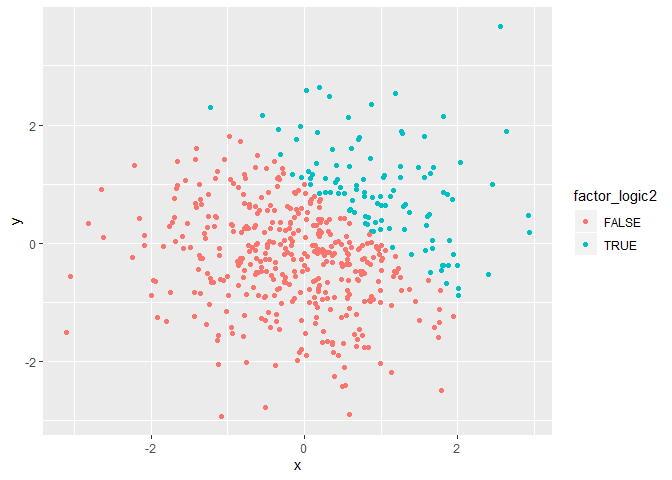
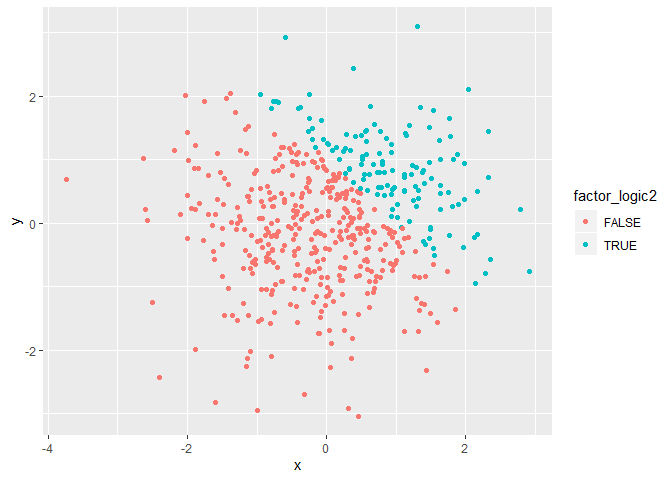
I updated my RMD file, writing interpretations for scatter plots.

diff --git a/p8105_hw1_ha2546.md b/p8105_hw1_ha2546.md
@@ -22,13 +22,13 @@ prob1_df = tibble(
 mean(pull(prob1_df, vec_sample))
 ```
 
-    ## [1] -0.4159251
+    ## [1] 0.4444922
 
 ``` r
 mean(pull(prob1_df, vec_logic))
 ```
 
-    ## [1] 0.25
+    ## [1] 0.625
 
 ``` r
 mean(pull(prob1_df, vec_char))
@@ -92,7 +92,7 @@ num_logic_calc = pull(prob1_df, vec_sample) * num_logic
 num_logic_calc
 ```
 
-    ## [1] 0.0000000 0.5542856 0.0000000 0.0000000 0.0000000 0.0000000 1.3110044
+    ## [1] 2.0380667 0.2765061 0.0000000 0.0000000 1.5849044 0.5586396 1.3837351
     ## [8] 0.0000000
 
 ``` r
@@ -107,7 +107,7 @@ factor_logic_calc1 = pull(prob1_df, vec_sample) * factor_logic
 factor_logic
 ```
 
-    ## [1] FALSE TRUE  FALSE FALSE FALSE FALSE TRUE  FALSE
+    ## [1] TRUE  TRUE  FALSE FALSE TRUE  TRUE  TRUE  FALSE
     ## Levels: FALSE TRUE
 
 ``` r
@@ -122,14 +122,14 @@ factor_logic_calc2 = pull(prob1_df, vec_sample) * num_factor_logic
 num_factor_logic
 ```
 
-    ## [1] 1 2 1 1 1 1 2 1
+    ## [1] 2 2 1 1 2 2 2 1
 
 ``` r
 factor_logic_calc2
 ```
 
-    ## [1] -0.7796672  1.1085712 -0.8760216 -0.4039876 -0.9040423 -2.1142915
-    ## [7]  2.6220089 -0.1146805
+    ## [1]  4.0761334  0.5530121 -0.1398486 -1.0294156  3.1698089  1.1172791
+    ## [7]  2.7674701 -1.1166501
 
   - **Results**
 
@@ -159,9 +159,9 @@ prob2_df = tibble(
 ```
 
 The size of my dataset is 500, 5; which means it has 500 rows and
-5columns. The mean of x is 0.0553961, its median is 0.1227795, and its
-standard deviation is 0.9956365. The proportion of cases for which x + y
-\> 1 is 0.0428
+5columns. The mean of x is 0.0254439, its median is 0.0300601, and its
+standard deviation is 1.0152901. The proportion of cases for which x + y
+\> 1 is 0.052
 
 ## 2.2
 
@@ -196,4 +196,11 @@ ggsave("logic_scatterplot.pdf")
 
     ## Saving 7 x 5 in image
 
-  - Results(comment on colors in these three plots)
+  - **Results**
+
+When we try to color with logical vector, we have only two colors
+because it is either true or false. Whne working with numeric one,
+because it is a range, we get a range of colors although we only get two
+golors in our plot due to the properties of the case we are working
+with. For logical vector, it is again only tru and false cases, so we
+again only get two colors.
